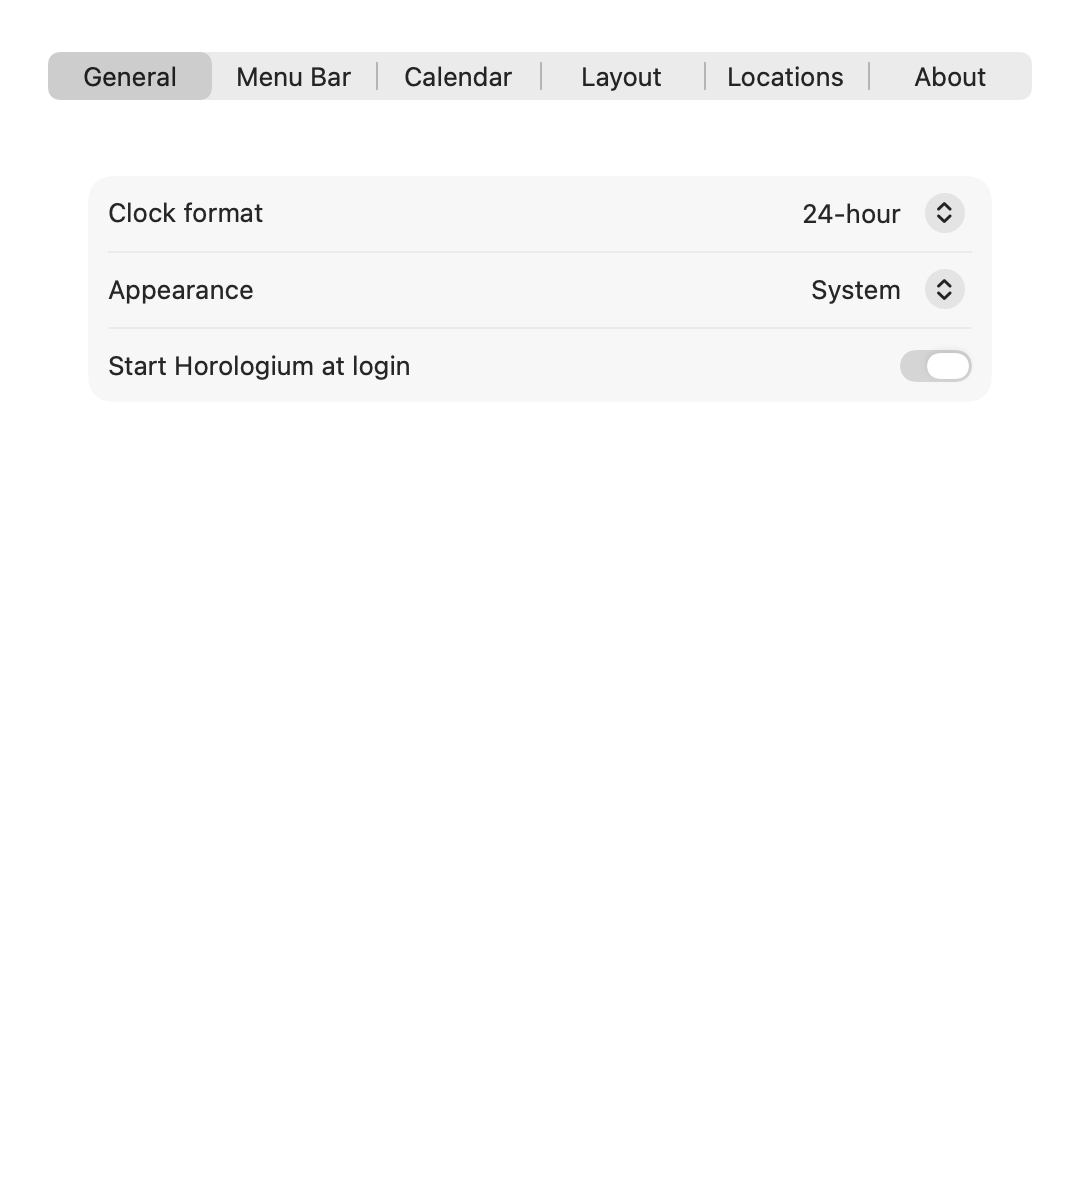
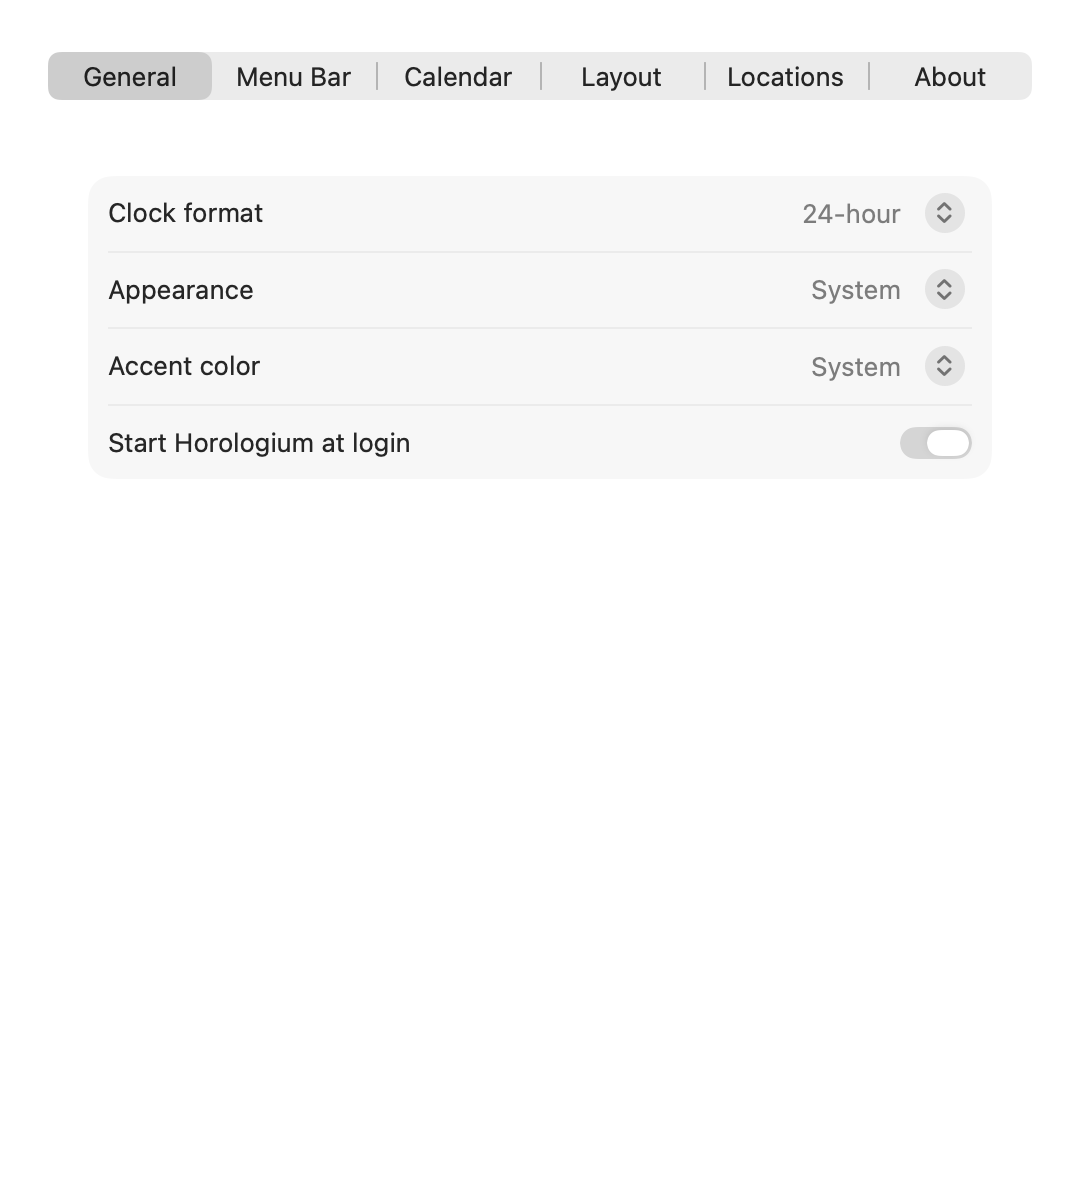
Add system and custom accent colors with native color picker

diff --git a/Horologium/Views/SettingsView.swift b/Horologium/Views/SettingsView.swift
@@ -28,7 +28,7 @@ struct SettingsView: View {
 
     var body: some View {
         VStack(alignment: .leading, spacing: 16) {
-            SettingsTabs(selection: $navigation.tab).frame(width: 492, height: 28)
+            SettingsTabs(selection: $navigation.tab, accent: store.preferences.appAccent).frame(width: 492, height: 28)
             Group {
                 switch navigation.tab {
                 case .general: general
@@ -51,6 +51,7 @@ struct SettingsView: View {
             }
         }
         .onAppear { loginEnabled = SMAppService.mainApp.status == .enabled }
+        .modifier(AppAccent(preferences: store.preferences))
     }
 
     private var locations: some View {
@@ -106,6 +107,27 @@ struct SettingsView: View {
             }
             Picker("Appearance", selection: $store.preferences.appearance) {
                 ForEach(AppearanceMode.allCases) { Text($0.title).tag($0) }
+            }
+            Picker("Accent color", selection: Binding(
+                get: { store.preferences.accentMode },
+                set: { mode in
+                    var preferences = store.preferences
+                    preferences.accentMode = mode
+                    if mode == .custom && preferences.customAccent == nil {
+                        preferences.customAccent = SavedAccentColor(nsColor: .controlAccentColor)
+                    }
+                    store.preferences = preferences
+                })) {
+                ForEach(AccentMode.allCases) { Text($0.title).tag($0) }
+            }
+            if store.preferences.accentMode == .custom {
+                ColorPicker("Custom color", selection: Binding(
+                    get: { store.preferences.customAccent?.color ?? Color(nsColor: .controlAccentColor) },
+                    set: { color in
+                        if let saved = SavedAccentColor(nsColor: NSColor(color)) {
+                            store.preferences.customAccent = saved
+                        }
+                    }), supportsOpacity: false)
             }
             Toggle("Start Horologium at login", isOn: Binding(get: { loginEnabled }, set: setLogin))
             if SMAppService.mainApp.status == .requiresApproval {
@@ -233,6 +255,7 @@ private struct LocationEditorState: Identifiable {
 // Fixed segment widths prevent native selection emphasis from shifting adjacent tabs.
 struct SettingsTabs: NSViewRepresentable {
     @Binding var selection: SettingsView.Tab
+    var accent: Color? = nil
 
     func makeNSView(context: Context) -> NSSegmentedControl {
         let control = NSSegmentedControl()
@@ -253,6 +276,7 @@ struct SettingsTabs: NSViewRepresentable {
 
     func updateNSView(_ control: NSSegmentedControl, context: Context) {
         context.coordinator.selection = $selection
+        control.selectedSegmentBezelColor = accent.map { NSColor($0) }
         control.selectedSegment = SettingsView.Tab.allCases.firstIndex(of: selection)!
     }
 

diff --git a/HorologiumTests/AccentColorTests.swift b/HorologiumTests/AccentColorTests.swift
@@ -1,0 +1,44 @@
+import AppKit
+import XCTest
+@testable import Horologium
+
+final class AccentColorTests: XCTestCase {
+    func testLegacySettingsFollowSystemAccent() throws {
+        let preferences = try JSONDecoder().decode(Preferences.self, from: Data("{}".utf8))
+        XCTAssertEqual(preferences.accentMode, .system)
+        XCTAssertNil(preferences.customAccent)
+        XCTAssertNil(preferences.appAccent)
+    }
+
+    @MainActor func testCustomAccentPersistsAndSystemModePreservesChoice() {
+        let suite = "HorologiumTests.\(UUID())"
+        let defaults = UserDefaults(suiteName: suite)!
+        defer { defaults.removePersistentDomain(forName: suite) }
+        let store = AppStore(defaults: defaults)
+        let color = SavedAccentColor(red: 0.65, green: 0.19, blue: 0.82)
+        store.preferences.customAccent = color
+        store.preferences.accentMode = .custom
+        let restored = AppStore(defaults: defaults)
+        XCTAssertEqual(restored.preferences.accentMode, .custom)
+        XCTAssertEqual(restored.preferences.customAccent, color)
+        XCTAssertNotNil(restored.preferences.appAccent)
+        restored.preferences.accentMode = .system
+        let system = AppStore(defaults: defaults)
+        XCTAssertEqual(system.preferences.customAccent, color)
+        XCTAssertNil(system.preferences.appAccent)
+        system.preferences.accentMode = .custom
+        XCTAssertNotNil(system.preferences.appAccent)
+    }
+
+    func testNativeColorRoundTripAndSelectionContrast() throws {
+        let native = NSColor(srgbRed: 0.3, green: 0.5, blue: 0.7, alpha: 0.2)
+        let saved = try XCTUnwrap(SavedAccentColor(nsColor: native))
+        XCTAssertEqual(saved.red, 0.3, accuracy: 0.001)
+        XCTAssertEqual(saved.green, 0.5, accuracy: 0.001)
+        XCTAssertEqual(saved.blue, 0.7, accuracy: 0.001)
+        XCTAssertEqual(saved.nsColor.alphaComponent, 1)
+        XCTAssertEqual(try JSONDecoder().decode(SavedAccentColor.self, from: JSONEncoder().encode(saved)), saved)
+        XCTAssertFalse(SavedAccentColor(red: 1, green: 1, blue: 0).usesLightForeground)
+        XCTAssertTrue(SavedAccentColor(red: 0, green: 0, blue: 0).usesLightForeground)
+    }
+}

diff --git a/Horologium/Core/AppStore.swift b/Horologium/Core/AppStore.swift
@@ -42,6 +42,8 @@ struct Preferences: Codable, Equatable {
     var showAMPM = true
     var clockFormat = ClockFormat.system
     var appearance = AppearanceMode.system
+    var accentMode = AccentMode.system
+    var customAccent: SavedAccentColor?
     var weekStart = WeekStart.system
     var travelInterval = TravelInterval.thirty
     var sectionOrder = DropdownSection.allCases
@@ -49,7 +51,7 @@ struct Preferences: Codable, Equatable {
     init() {}
     private enum CodingKeys: String, CodingKey {
         case calendarIconOnly, showDate, showWeekNumber, showDayOfWeek, showMonth, showTime, showSeconds, showAMPM
-        case clockFormat, appearance, weekStart, travelInterval, sectionOrder
+        case clockFormat, appearance, accentMode, customAccent, weekStart, travelInterval, sectionOrder
     }
     init(from decoder: Decoder) throws {
         let v = try decoder.container(keyedBy: CodingKeys.self)
@@ -63,6 +65,8 @@ struct Preferences: Codable, Equatable {
         showAMPM = try v.decodeIfPresent(Bool.self, forKey: .showAMPM) ?? true
         clockFormat = try v.decodeIfPresent(ClockFormat.self, forKey: .clockFormat) ?? .system
         appearance = try v.decodeIfPresent(AppearanceMode.self, forKey: .appearance) ?? .system
+        accentMode = try v.decodeIfPresent(AccentMode.self, forKey: .accentMode) ?? .system
+        customAccent = try v.decodeIfPresent(SavedAccentColor.self, forKey: .customAccent)
         weekStart = try v.decodeIfPresent(WeekStart.self, forKey: .weekStart) ?? .system
         travelInterval = try v.decodeIfPresent(TravelInterval.self, forKey: .travelInterval) ?? .thirty
         let order = try v.decodeIfPresent([DropdownSection].self, forKey: .sectionOrder) ?? DropdownSection.allCases

diff --git a/HorologiumTests/VisualPreviewTests.swift b/HorologiumTests/VisualPreviewTests.swift
@@ -16,6 +16,7 @@ final class VisualPreviewTests: XCTestCase {
             SavedLocation(label: "Tokyo", detail: "Tokyo, Japan", timeZoneID: "Asia/Tokyo", emoji: "🇯🇵", sourceName: "Tokyo"),
             SavedLocation(label: "San Francisco", detail: "California, United States", timeZoneID: "America/Los_Angeles", emoji: "🇺🇸", sourceName: "San Francisco")
         ]
+        let sampleLocations = store.locations
         try render(PopoverView(store: store, openLocations: {}), name: "01-calendar-and-world-clocks", width: 352)
         store.travel(step: 32)
         try render(PopoverView(store: store, openLocations: {}), name: "02-time-travel", width: 352)
@@ -43,6 +44,14 @@ final class VisualPreviewTests: XCTestCase {
         preferences.setCalendarIconOnly(true)
         store.preferences = preferences
         try render(SettingsView(store: store, initialTab: .menuBar), name: "18-calendar-icon-only", width: 540)
+        preferences.setCalendarIconOnly(false)
+        preferences.accentMode = .custom
+        preferences.customAccent = SavedAccentColor(red: 0.65, green: 0.19, blue: 0.82)
+        store.preferences = preferences
+        store.locations = sampleLocations
+        try render(SettingsView(store: store), name: "19-custom-accent-settings", width: 540)
+        try render(PopoverView(store: store, openLocations: {}), name: "20-custom-accent", width: 352)
+        try render(PopoverView(store: store, openLocations: {}), name: "21-custom-accent-dark", width: 352, dark: true)
     }
 
     @MainActor func testSettingsTabWidthsRemainStableAcrossSelections() async throws {

diff --git a/Horologium/Views/AppAccent.swift b/Horologium/Views/AppAccent.swift
@@ -1,0 +1,31 @@
+import AppKit
+import SwiftUI
+
+extension SavedAccentColor {
+    init?(nsColor: NSColor) {
+        guard let color = nsColor.usingColorSpace(.sRGB) else { return nil }
+        red = min(max(Double(color.redComponent), 0), 1)
+        green = min(max(Double(color.greenComponent), 0), 1)
+        blue = min(max(Double(color.blueComponent), 0), 1)
+    }
+
+    var color: Color { Color(.sRGB, red: red, green: green, blue: blue, opacity: 1) }
+    var nsColor: NSColor { NSColor(srgbRed: red, green: green, blue: blue, alpha: 1) }
+}
+
+extension Preferences {
+    var appAccent: Color? { accentMode == .custom ? customAccent?.color : nil }
+    var calendarSelectionForeground: Color {
+        guard accentMode == .custom, let customAccent else { return .white }
+        return customAccent.usesLightForeground ? .white : .black
+    }
+}
+
+struct AppAccent: ViewModifier {
+    let preferences: Preferences
+    func body(content: Content) -> some View {
+        content
+            .tint(preferences.appAccent ?? Color(nsColor: .controlAccentColor))
+            .accentColor(preferences.appAccent)
+    }
+}

diff --git a/Horologium/Core/AccentColor.swift b/Horologium/Core/AccentColor.swift
@@ -1,0 +1,22 @@
+import Foundation
+
+enum AccentMode: String, Codable, CaseIterable, Identifiable {
+    case system, custom
+    var id: Self { self }
+    var title: String { rawValue.capitalized }
+}
+
+/// Opaque sRGB components keep the user's color independent of appearance and device color space.
+struct SavedAccentColor: Codable, Equatable {
+    var red: Double
+    var green: Double
+    var blue: Double
+
+    var usesLightForeground: Bool {
+        func linear(_ component: Double) -> Double {
+            component <= 0.04045 ? component / 12.92 : pow((component + 0.055) / 1.055, 2.4)
+        }
+        let luminance = 0.2126 * linear(red) + 0.7152 * linear(green) + 0.0722 * linear(blue)
+        return luminance < 0.179
+    }
+}

diff --git a/Horologium/Views/CalendarView.swift b/Horologium/Views/CalendarView.swift
@@ -44,7 +44,7 @@ struct CalendarView: View {
         return Button { store.select(day) } label: {
             Text("\(calendar.component(.day, from: day))")
                 .font(.system(size: 12, weight: selected || today ? .semibold : .regular, design: .rounded))
-                .foregroundStyle(selected ? Color.white : (inMonth ? Color.primary : Color.secondary.opacity(0.55)))
+                .foregroundStyle(selected ? store.preferences.calendarSelectionForeground : (inMonth ? Color.primary : Color.secondary.opacity(0.55)))
                 .frame(maxWidth: .infinity).frame(height: 29)
                 .background {
                     if selected { RoundedRectangle(cornerRadius: 8).fill(Color.accentColor) }

diff --git a/Horologium/Views/PopoverView.swift b/Horologium/Views/PopoverView.swift
@@ -30,6 +30,7 @@ struct PopoverView: View {
         .onKeyPress(.upArrow) { store.moveSelection(days: -7); return .handled }
         .onKeyPress(.downArrow) { store.moveSelection(days: 7); return .handled }
         .onKeyPress(.space) { store.returnToNow(); return .handled }
+        .modifier(AppAccent(preferences: store.preferences))
     }
 
     private var timeTravel: some View {

diff --git a/README.md b/README.md
@@ -18,6 +18,7 @@ Click the date and time in the menu bar to browse a month, check your saved loca
 - A shortcut to macOS clock settings below the format toggles. macOS keeps its native clock visible; Horologium does not modify system clock preferences.
 - Reorder Calendar, Time Travel, and Time Zones in Settings → Layout.
 - System-following appearance by default, with Light/Dark overrides and VoiceOver labels.
+- System accent color by default, or a custom accent chosen with the native macOS color picker in General settings.
 - Local preferences only. No accounts, calendar permissions, event notifications, analytics, or runtime network requests.
 
 The menu bar always shows live time. Selecting a day or moving the slider previews the same instant in every location. **Now** resets the preview; reopening the dropdown also returns to live time. Spring-forward days omit nonexistent hours, and fall-back days include both occurrences of repeated hours, identified by their GMT offsets.
@@ -44,7 +45,7 @@ Rendered from the actual SwiftUI views with sample locations (not desktop screen
 
 [Week start and slider intervals](docs/previews/09-calendar-settings.png) · [Locations](docs/previews/11-location-settings.png) · [Reordered dropdown example](docs/previews/12-reordered-sections.png)
 
-[Calendar icon only](docs/previews/18-calendar-icon-only.png) · [About](docs/previews/13-about.png) · [About in dark mode](docs/previews/14-about-dark.png)
+[Custom accent](docs/previews/20-custom-accent.png) · [Accent settings](docs/previews/19-custom-accent-settings.png) · [Calendar icon only](docs/previews/18-calendar-icon-only.png) · [About](docs/previews/13-about.png) · [About in dark mode](docs/previews/14-about-dark.png)
 
 ## Build and run
 
@@ -70,7 +71,7 @@ Create a local installer for development:
 ./scripts/package.sh --local
 ```
 
-Output: `build/packages/Horologium-1.0.6-build7-local.pkg`. This contains an ad hoc signed app; the package is **not Developer ID signed or notarized** and is for local development.
+Output: `build/packages/Horologium-1.0.7-build8-local.pkg`. This contains an ad hoc signed app; the package is **not Developer ID signed or notarized** and is for local development.
 
 Once Ardens' Apple Developer Program membership is active:
 
@@ -91,7 +92,7 @@ Quit an existing Horologium process before installing an updated build, then reo
 
 ## Versioning
 
-The current version is **1.0.6 (build 7)**. `Version.json` is the source of truth; the Xcode project generator reads it, About reads the built app metadata, and installer filenames include both version and build.
+The current version is **1.0.7 (build 8)**. `Version.json` is the source of truth; the Xcode project generator reads it, About reads the built app metadata, and installer filenames include both version and build.
 
 Bump the patch version and build once per delivered change:
 

diff --git a/CHANGELOG.md b/CHANGELOG.md
@@ -1,5 +1,11 @@
 # Changelog
 
+## 1.0.7 — Build 8
+
+- Added System/Custom accent color selection in General settings, using the native macOS color picker.
+- Applied the accent to the dropdown, settings controls, calendar highlights, and native settings tabs.
+- Preserved custom colors when returning to System, and kept selected calendar dates legible with light colors.
+
 ## 1.0.6 — Build 7
 
 - Replaced the main anchored popover with a rounded, arrowless native panel below the menu bar item.
